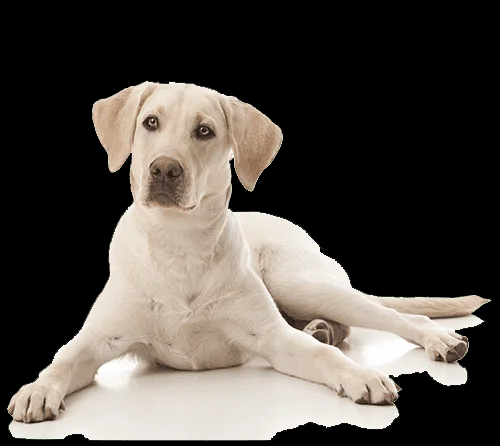
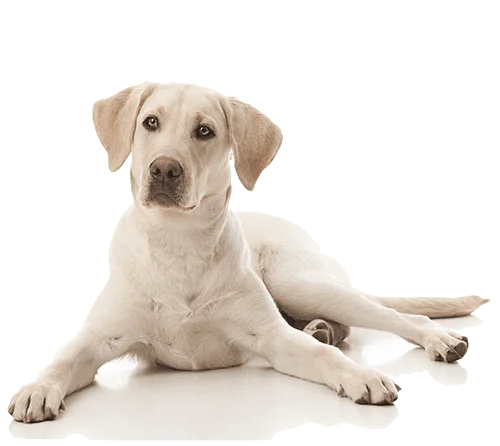
clear cart button, debug for add to cart dialog. remove unecessary stuff

diff --git a/app.py b/app.py
@@ -39,7 +39,7 @@ elif len(_SS["dispProds"]) != len(_SS["inventory"]):
 
 # define dialog for adding to cart
 # because of the loop, need to pass i as an argument
-@st.dialog(f"Thank you for choosing this product! Please select the quantity.")
+@st.dialog(f"Thank you for choosing this product! Please select the quantity.", on_dismiss=st.rerun)
 def addToCart(i=int):
     product = _SS["dispProds"][i]
     st.write(f"You have selected {product.name}.")
@@ -61,11 +61,10 @@ def addToCart(i=int):
         
         # Rerun to reflect changes
         st.success(f"Added {quantity} of {product.name} to cart.")
-        st.rerun()
 
 
 for i in range(0,len(_SS["dispProds"]),2):
-    (col1, col2) = st.columns(2, vertical_alignment="center", gap="medium", border=False)
+    (col1, col2) = st.columns(2, vertical_alignment="center", gap="medium")
     
     #columns
     with col1:
@@ -96,7 +95,11 @@ def checkout():
         st.write(f"- {cartItem['item']}: x{cartItem['quantity']}")
     if st.button("Confirm Purchase"):
         st.success(f"Purchase confirmed!")
-        #st.success(f"Purchase confirmed! You bought {_SS.purchase['quantity']} of {_SS.purchase['item']}.")
 
-if st.button("Proceed to Checkout"):
+if st.button("Proceed to Checkout", disabled=(len(_SS["cart"])==0)):
     checkout()
+
+if st.button("Clear Cart", disabled=(len(_SS["cart"])==0)):
+    _SS["cart"].clear()
+    st.rerun()
+    st.success("Cart cleared.")
